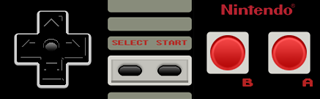
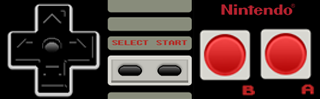
Importing nesapp-0.13

Changed region(s): [[0.0, 0.0303, 0.3125, 1.0], [0.625, 0.2727, 1.0, 0.9697]]

diff --git a/src/ControllerView.m b/src/ControllerView.m
@@ -27,14 +27,14 @@ extern unsigned long dwKeyPad1;
 - (id)initWithFrame:(CGRect)frame {
 	if ((self == [super initWithFrame:frame])!=nil) {
 		_controllerImage = [UIImage applicationImageNamed:@"controller.png"];
-		Up = CGRectMake(37, 0, 36, 36);
-		Down = CGRectMake(37, 60, 36, 36);
-		Left = CGRectMake(5, 33, 31, 36);
-		Right = CGRectMake(68, 33, 31, 36);
+		Up = CGRectMake(34, 0, 39, 33);
+		Down = CGRectMake(34, 65, 39, 33);
+		Left = CGRectMake(0, 31, 43, 38);
+		Right = CGRectMake(63, 31, 43, 38);
 		Select = CGRectMake(110, 60, 36, 20);
 		Start = CGRectMake(155, 60, 36, 20);
-		B = CGRectMake(198, 21, 54, 54);
-		A = CGRectMake(260, 21, 54, 54);
+		B = CGRectMake(197, 27, 56, 72);
+		A = CGRectMake(258, 27, 56, 72);
 		_fixed = false;
 	}
 	return self;
@@ -87,25 +87,25 @@ extern unsigned long dwKeyPad1;
 	if (CGRectContainsPoint(A, point)) {
 		button |= BIT_00;
 	}
-	if (CGRectContainsPoint(B, point)) {
+	else if (CGRectContainsPoint(B, point)) {
 		button |= BIT_01;
 	}
-	if (CGRectContainsPoint(Up, point)) {
+	else if (CGRectContainsPoint(Up, point)) {
 		button |= BIT_04;
 	}
-	if (CGRectContainsPoint(Down, point)) {
+	else if (CGRectContainsPoint(Down, point)) {
 		button |= BIT_05;
 	}
-	if (CGRectContainsPoint(Left, point)) {
+	else if (CGRectContainsPoint(Left, point)) {
 		button |= BIT_06;
 	}
-	if (CGRectContainsPoint(Right, point)) {
+	else if (CGRectContainsPoint(Right, point)) {
 		button |= BIT_07;
 	}
-	if (CGRectContainsPoint(Select, point)) {
+	else if (CGRectContainsPoint(Select, point)) {
 		button |= BIT_02;
 	}
-	if (CGRectContainsPoint(Start, point)) {
+	else if (CGRectContainsPoint(Start, point)) {
 		button |= BIT_03;
 	}
 	return button;
@@ -113,21 +113,47 @@ extern unsigned long dwKeyPad1;
 
 - (void)mouseDown:(GSEvent *)event {
 	int button = [self controllerButtonPressed: event];
-	dwKeyPad1 = button;
+        if (button)
+            dwKeyPad1 = button;
 }
 
 - (void)mouseDragged:(GSEvent *)event {
         int button = [self controllerButtonPressed: event];
-        dwKeyPad1 = button;
+        if (!button)
+            return;
+
+        if (!(dwKeyPad1 & button)) {
+            dwKeyPad1 |= button;
+            if (button >= BIT_04 && button <= BIT_07)
+            {
+                // Reset directional pad
+                if (button != BIT_04)
+                    dwKeyPad1 &= ~BIT_04;
+                if (button != BIT_05)
+                    dwKeyPad1 &= ~BIT_05;
+                if (button != BIT_06)
+                    dwKeyPad1 &= ~BIT_06;
+                if (button != BIT_07)
+                    dwKeyPad1 &= ~BIT_07;
+            } else if (button == BIT_00 || button == BIT_01) 
+            {
+                if (button != BIT_00)
+                   dwKeyPad1 &= ~BIT_00;
+                else
+                   dwKeyPad1 &= ~BIT_01;
+            }
+        }
 }
 - (void)mouseUp:(GSEvent *)event {
         int button = [self controllerButtonPressed: event];
-        dwKeyPad1 &= ~button;
-}
 
-- (void)mouseMoved:(GSEvent *)event {
-        int button = [self controllerButtonPressed: event];
-        dwKeyPad1 = button;
+        if (!button)
+            dwKeyPad1 = 0;
+        else 
+            if (dwKeyPad1 > 16 && dwKeyPad1 % 8 != 0)
+                dwKeyPad1 = 0;
+            else
+                dwKeyPad1 &= ~button;
 }
 
 @end

diff --git a/src/ControllerView.h b/src/ControllerView.h
@@ -52,6 +52,5 @@
 - (void)mouseDown:(struct __GSEvent *)event;
 - (void)mouseDragged:(struct __GSEvent *)event;
 - (void)mouseUp:(struct __GSEvent *)event;
-- (void)mouseMoved:(struct __GSEvent *)event;
 
 @end

diff --git a/src/InfoNES/InfoNES.c b/src/InfoNES/InfoNES.c
@@ -389,7 +389,7 @@ int InfoNES_Reset()
   InfoNES_MemorySet( RAM, 0, sizeof RAM );
 
   // Reset frame skip and frame count
-  FrameSkip = 2;
+  FrameSkip = 3;
   FrameCnt = 0;
 
 #if 0

diff --git a/src/InfoNES_iPhone.c b/src/InfoNES_iPhone.c
@@ -178,7 +178,6 @@ void InfoNES_SoundOutput(
   BYTE *wave5 ) 
 {
   int i;
-
   for (i = 0; i < samples; i++)
   {
     waveBuffer[writePtr] = 
